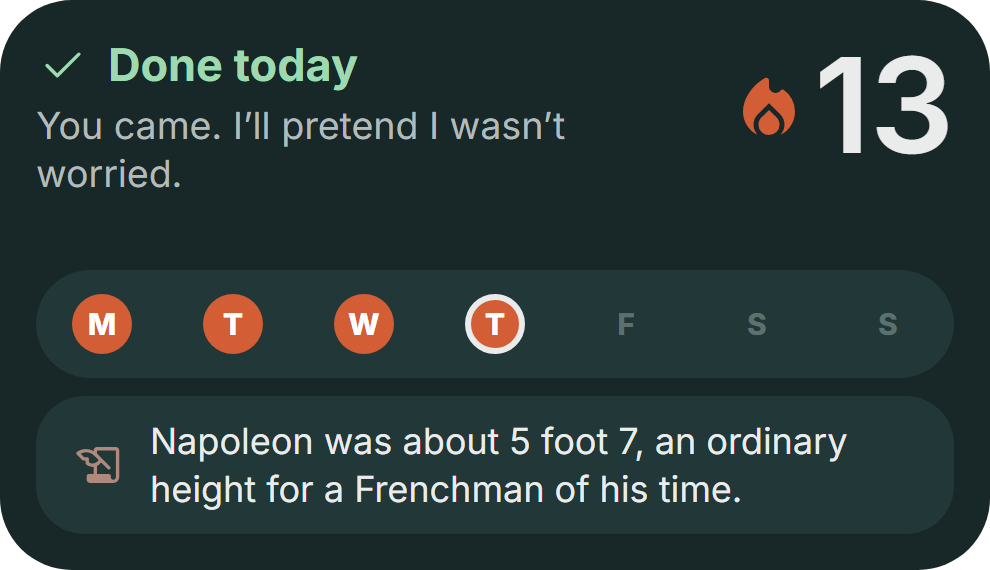
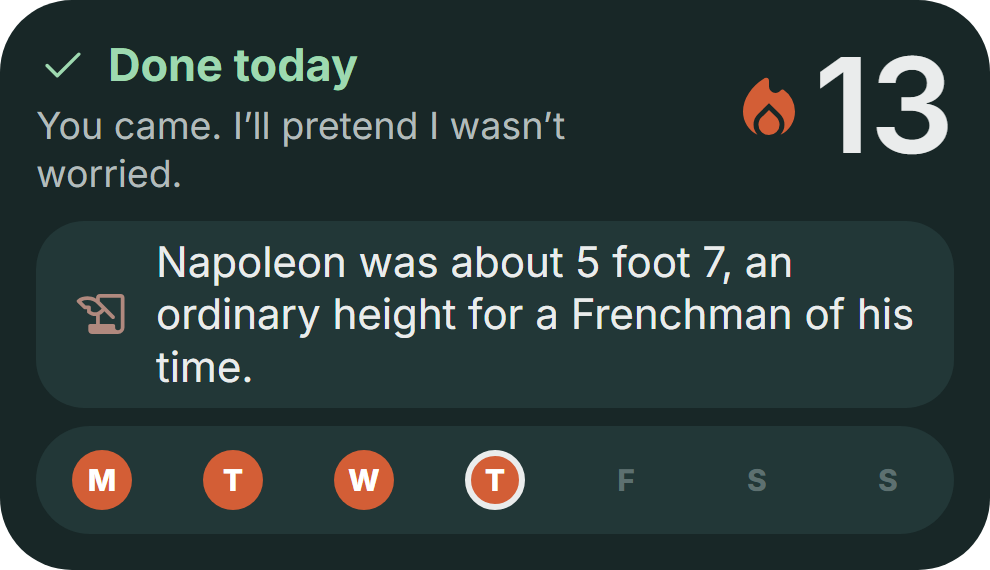
feat: the widget's fact sits above the week row, and reads larger
The owner asked for the week at the foot, the same size, and the fact above it
made larger. The fact is 14 on a 17.5 leading (was 12/16) with a 20dp mark, and
its pill's padding went 7 -> 5 so three lines still fit beside a two-row line at
330x190: check:widget holds all 84 facts whole there. The offer pictures are
redrawn; the picker preview is compiled and waits for the next build.

diff --git a/components/widget/StudyWidget.tsx b/components/widget/StudyWidget.tsx
@@ -15,8 +15,9 @@ import { markFor, mix, STATUS_COLOR, STATUS_ICON, W } from './widgetTheme';
 // From three mocks drawn after Google's own widgets, the owner picked the one
 // after Pixel Weather's Material 3 Expressive widgets: one deep container; the
 // streak as the hero number where Weather puts the temperature; the status and his
-// line beside it; then rounded pills inside — the week, Monday first, like the
-// hourly forecast row, and a fact from the day's subject with its Material Symbol.
+// line beside it; then rounded pills inside — a fact from the day's subject with
+// its Material Symbol, and at the foot the week, Monday first, like the hourly
+// forecast row (the fact went above the week on 2026-10-07, at the owner's word).
 // No illustration. At 2×2 it is the streak alone; on a short 4×1 strip, one row.
 //
 // NOT a React Native tree: RemoteViews, in a headless task, so only the library's
@@ -136,17 +137,17 @@ export function StudyWidget({ mood, subjectName, subjectHue, width, height }: St
         </FlexWidget>
       </FlexWidget>
       <FlexWidget style={{ flex: 1 }} />
-      {/* The week, Monday first, like Weather's hourly row. */}
-      <FlexWidget style={{ width: 'match_parent', backgroundColor: hex(W.pill), borderRadius: 18, paddingVertical: WEEK.padY, paddingHorizontal: WEEK.padX }}>
-        <Week week={mood.week} disc={WEEK.disc} />
-      </FlexWidget>
-      {/* The day's subject and its fact, whole or not at all. */}
+      {/* The day's subject and its fact, whole or not at all, above the week (2026-10-07). */}
       {L.factLines ? (
-        <FlexWidget style={{ width: 'match_parent', marginTop: GAP, backgroundColor: hex(W.pill), borderRadius: 16, paddingVertical: FACT.padY, paddingHorizontal: FACT.padX, flexDirection: 'row', alignItems: 'center' }}>
+        <FlexWidget style={{ width: 'match_parent', marginBottom: GAP, backgroundColor: hex(W.pill), borderRadius: 16, paddingVertical: FACT.padY, paddingHorizontal: FACT.padX, flexDirection: 'row', alignItems: 'center' }}>
           <SvgWidget svg={svg(mood.subject as IconName, markFor(subjectHue))} style={{ width: FACT.icon, height: FACT.icon, marginRight: FACT.gap }} />
           <TextWidget text={mood.fact} maxLines={L.factLines} style={{ width: Math.floor(L.factW), fontSize: T.fact.size, color: hex(W.on) }} />
         </FlexWidget>
       ) : null}
+      {/* The week at the foot, Monday first, like Weather's hourly row. */}
+      <FlexWidget style={{ width: 'match_parent', backgroundColor: hex(W.pill), borderRadius: 18, paddingVertical: WEEK.padY, paddingHorizontal: WEEK.padX }}>
+        <Week week={mood.week} disc={WEEK.disc} />
+      </FlexWidget>
     </FlexWidget>
   );
 }

diff --git a/components/widget/widgetLayout.ts b/components/widget/widgetLayout.ts
@@ -8,7 +8,7 @@
 //
 // Three shapes, after Pixel Weather's widgets (the owner's pick, 2026-10-02):
 //   FULL   (4×2 and up)  status and his line top-left, the streak big top-right,
-//                         then the week pill and the fact pill. The fact is shown
+//                         then the fact pill and, at the foot, the week pill. The fact is shown
 //                         only when it fits WHOLE; if it does not, it is left out
 //                         rather than cut.
 //   GLANCE (2×2)         the streak alone, big, with "day streak" and the status.
@@ -61,13 +61,15 @@ export const T = {
   line: { size: 12.5, lh: 16 },
   hero: { size: 44, lh: 46 },
   heroFlame: 26,
-  fact: { size: 12, lh: 16 },
+  // 14 since 2026-10-07: the owner asked for the fact larger. 3 lines of it fit
+  // beside a two-row line at 330×190 only at a 17.5 leading and the pill's 5 padding.
+  fact: { size: 14, lh: 17.5 },
   glanceHero: { size: 52, lh: 54 },
 };
 /** The week pill: seven discs with the day's letter in each. */
 export const WEEK = { disc: 20, padY: 8, padX: 12, h: 20 + 8 * 2 };
 /** The fact pill: a subject mark, then the fact. */
-export const FACT = { padY: 7, padX: 12, icon: 18, gap: 8 };
+export const FACT = { padY: 5, padX: 12, icon: 20, gap: 8 };
 export const GAP = 6;
 
 export interface FullLayout {
